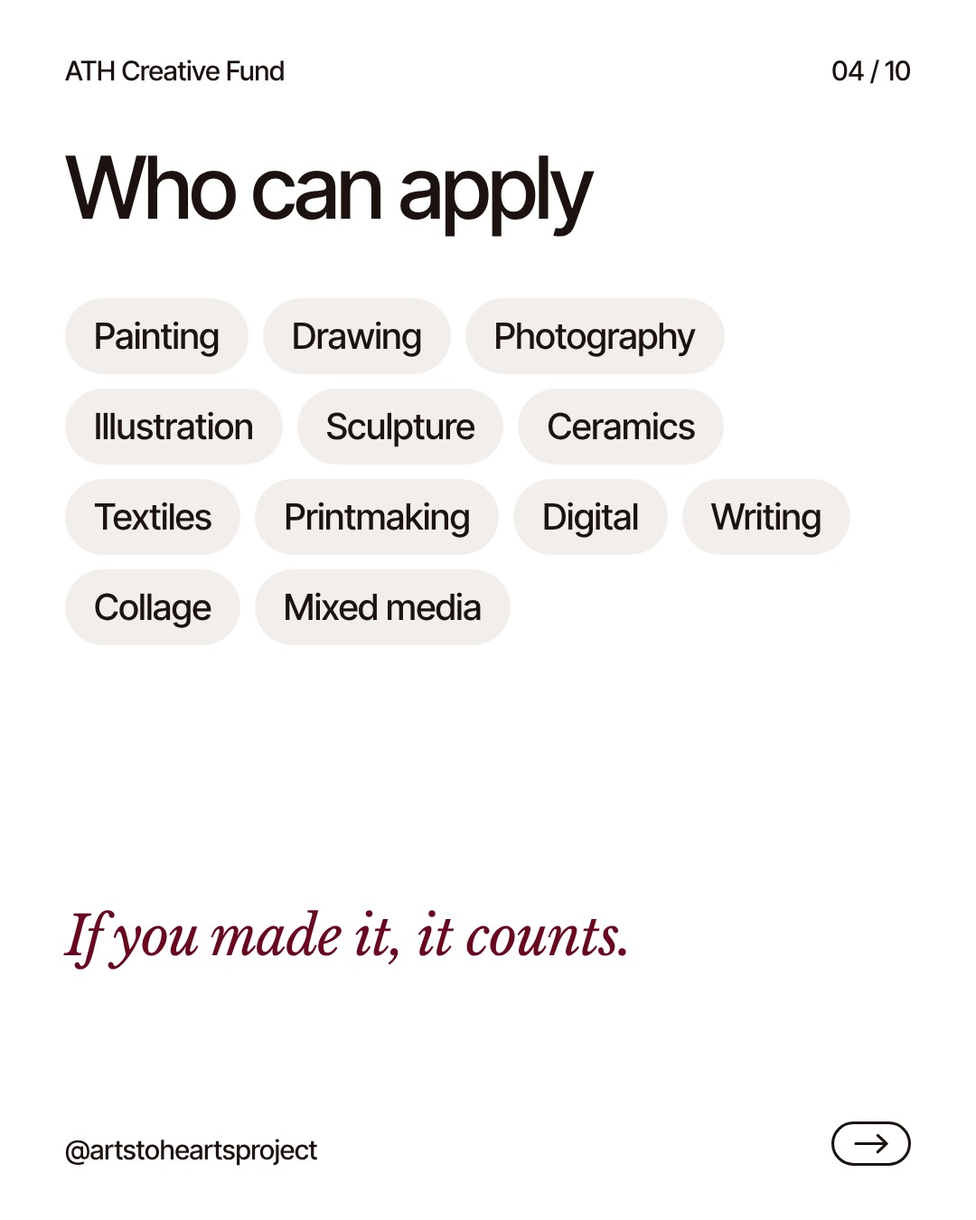
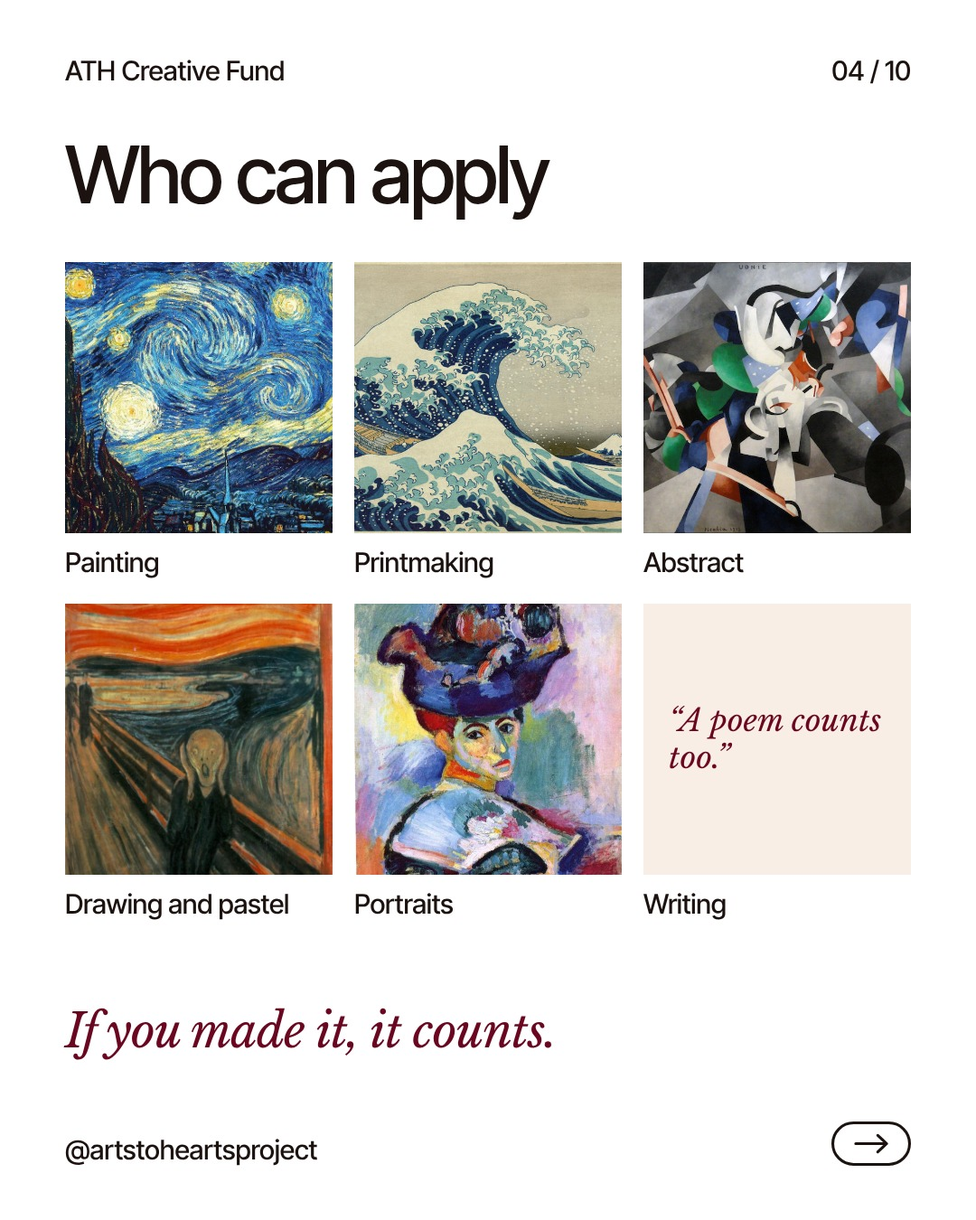
Rebuild Creative Fund carousel around the name and the art
Three cover options with ATH Creative Fund as the hero, the arrow badge,
serif voice and artwork back in, a mock Instagram post for step 2 and
the form for step 3.

Claude-Session: https://claude.ai/code/session_01Mf1HzAjfZN4cuceuciLqZR

diff --git a/design/campaigns/creative-fund/ATH-creative-fund-launch.html b/design/campaigns/creative-fund/ATH-creative-fund-launch.html
@@ -139,7 +139,7 @@ pre.cap{white-space:pre-wrap;background:var(--cream);border-radius:var(--r);padd
 <div class="links"><a class="pill rose" href="#carousel">The carousel</a><a class="pill rose" href="#caption">Caption</a><a class="pill line" href="#decide">To decide</a></div>
 </div></header>
 <div class="wrap layout"><nav class="toc" aria-label="Contents"><ol><li><a href="#goal">The goal</a></li><li><a href="#carousel">Carousel</a></li><li><a href="#caption">Caption</a></li><li><a href="#maths">The numbers</a></li><li><a href="#instagram">Instagram</a></li><li><a href="#launch">Launch plan</a></li><li><a href="#rhythm">Every month</a></li><li><a href="#rules">Promotion rules</a></li><li><a href="#decide">To decide</a></li></ol></nav><main><section class="s" id="goal"><p class="eyebrow">01 · The goal</p><h2>One artist, $500, every month. Make it the most saved and shared post ATH has made.</h2><p class="intro">The launch carousel has three jobs: make people want it, make the steps impossible to get wrong, and make it easy to pass on. Everything below serves those three.</p><div class="tw"><table><thead><tr><th>Goal</th><th>What drives it</th><th>Where it is in the carousel</th></tr></thead><tbody><tr><td>Saves (3,000+)</td><td>It is a to-do list people come back to: steps, dates, a checklist</td><td>Slides 5 to 9; "Save this" on the cover and the checklist</td></tr><tr><td>Shares and sends</td><td>It is money someone they know could use</td><td>Slide 2 (the conviction) and slide 10 ("Send this to them")</td></tr><tr><td>Entries</td><td>Three clear steps with the exact handle and hashtag to copy</td><td>Slides 5 to 7</td></tr><tr><td>Reach beyond followers</td><td>Every entry is a public post mentioning @artstoheartsproject</td><td>Built into step 2</td></tr></tbody></table></div></section>
-<section class="s" id="carousel"><p class="eyebrow">02 · Launch carousel</p><h2>Ten slides, one job each</h2><p class="intro">Ten slides keeps it within what scheduling tools can publish. The full-size files are in <code>design/campaigns/creative-fund/slides/</code>.</p><div class="grid g3"><figure><img class="shot" src="slides/web/01-cover.jpg" width="720" height="900" alt="Burgundy cover: $500 for one artist. Every month. No questions asked." loading="lazy"><figcaption><b>Cover: the offer</b>$500, every month, no questions asked. "Save this" in the corner and a swipe cue.</figcaption></figure><figure><img class="shot" src="slides/web/02-why.jpg" width="720" height="900" alt="Most funding asks artists to prove they deserve it. We would rather just fund the work." loading="lazy"><figcaption><b>The conviction</b>Why ATH is doing this, in two lines. This is the slide people quote when they share.</figcaption></figure><figure><img class="shot" src="slides/web/03-what.jpg" width="720" height="900" alt="$500 with four rows of what the fund means" loading="lazy"><figcaption><b>What you get</b>Four facts: one artist, US dollars, spend it on anything, no strings.</figcaption></figure><figure><img class="shot" src="slides/web/04-who.jpg" width="720" height="900" alt="Chips of twelve media and If you made it, it counts" loading="lazy"><figcaption><b>Who can apply</b>Every medium named, so nobody counts themselves out.</figcaption></figure><figure><img class="shot" src="slides/web/05-step1.jpg" width="720" height="900" alt="Step 1: choose your work" loading="lazy"><figcaption><b>Step 1</b>Choose your work.</figcaption></figure><figure><img class="shot" src="slides/web/06-step2.jpg" width="720" height="900" alt="Step 2: share on Instagram with @artstoheartsproject and #ATHCreativeFund" loading="lazy"><figcaption><b>Step 2</b>Share it, with the exact mention and hashtag to copy.</figcaption></figure><figure><img class="shot" src="slides/web/07-step3.jpg" width="720" height="900" alt="Step 3: apply on our site" loading="lazy"><figcaption><b>Step 3</b>Apply through the link in bio.</figcaption></figure><figure><img class="shot" src="slides/web/08-dates.jpg" width="720" height="900" alt="Dates: opens 15 Oct, closes 15 Nov, artist chosen TBC" loading="lazy"><figcaption><b>Dates</b>Opens, closes, when the artist is chosen.</figcaption></figure><figure><img class="shot" src="slides/web/09-checklist.jpg" width="720" height="900" alt="Checklist of six items with Save this so you don't miss a step" loading="lazy"><figcaption><b>The checklist</b>The reason to save: six boxes to tick before applying.</figcaption></figure><figure><img class="shot" src="slides/web/10-share.jpg" width="720" height="900" alt="Know an artist who needs $500? Send this to them." loading="lazy"><figcaption><b>The send</b>One clear ask to send it to an artist friend.</figcaption></figure></div></section>
+<section class="s" id="carousel"><p class="eyebrow">02 · Launch carousel</p><h2>Ten slides, one job each</h2><p class="intro">Pick one cover; the carousel is then ten slides, within what scheduling tools can publish. The paintings are public-domain stand-ins: swap in artists' work (with permission) before posting. The full-size files are in <code>design/campaigns/creative-fund/slides/</code>.</p><div class="grid g3"><figure><img class="shot" src="slides/web/01a-cover-type.jpg" width="720" height="900" alt="Burgundy cover: logo, ATH Creative Fund with the arrow badge, $500 for one artist, every month, No questions asked" loading="lazy"><figcaption><b>Cover option A: the name</b>ATH Creative Fund as the headline, $500 underneath. Strongest brand recall. Recommended.</figcaption></figure><figure><img class="shot" src="slides/web/01b-cover-art.jpg" width="720" height="900" alt="Matisse painting with ARTS TO HEARTS PROJECT PRESENTS, CREATIVE FUND, $500 for one artist every month, No proposal, No report, NO QUESTIONS ASKED" loading="lazy"><figcaption><b>Cover option B: the art</b>The name in capitals over an artwork, text placed around the subject. Most eye-catching in the feed.</figcaption></figure><figure><img class="shot" src="slides/web/01c-cover-split.jpg" width="720" height="900" alt="Starry Night above, ATH Creative Fund in Burgundy and $500 for one artist. No questions asked." loading="lazy"><figcaption><b>Cover option C: art and name</b>Artwork above, the name in Burgundy below. Calmest.</figcaption></figure><figure><img class="shot" src="slides/web/02-why.jpg" width="720" height="900" alt="Most funding asks artists to prove they deserve it. We would rather just fund the work." loading="lazy"><figcaption><b>The conviction</b>Why ATH is doing this, in two lines. This is the slide people quote when they share.</figcaption></figure><figure><img class="shot" src="slides/web/03-what.jpg" width="720" height="900" alt="$500 with four rows of what the fund means" loading="lazy"><figcaption><b>What you get</b>Four facts: one artist, US dollars, spend it on anything, no strings.</figcaption></figure><figure><img class="shot" src="slides/web/04-who.jpg" width="720" height="900" alt="Chips of twelve media and If you made it, it counts" loading="lazy"><figcaption><b>Who can apply</b>Artwork across media, and a page of writing, so nobody counts themselves out.</figcaption></figure><figure><img class="shot" src="slides/web/05-step1.jpg" width="720" height="900" alt="Step 1: choose your work" loading="lazy"><figcaption><b>Step 1</b>Choose your work.</figcaption></figure><figure><img class="shot" src="slides/web/06-step2.jpg" width="720" height="900" alt="Step 2: share on Instagram with @artstoheartsproject and #ATHCreativeFund" loading="lazy"><figcaption><b>Step 2</b>A real-looking Instagram post shows exactly what an entry looks like.</figcaption></figure><figure><img class="shot" src="slides/web/07-step3.jpg" width="720" height="900" alt="Step 3: apply on our site" loading="lazy"><figcaption><b>Step 3</b>The form, so people know what they will be asked.</figcaption></figure><figure><img class="shot" src="slides/web/08-dates.jpg" width="720" height="900" alt="Dates: opens 15 Oct, closes 15 Nov, artist chosen TBC" loading="lazy"><figcaption><b>Dates</b>Opens, closes, when the artist is chosen.</figcaption></figure><figure><img class="shot" src="slides/web/09-checklist.jpg" width="720" height="900" alt="Checklist of six items with Save this so you don't miss a step" loading="lazy"><figcaption><b>The checklist</b>The reason to save: six boxes to tick before applying.</figcaption></figure><figure><img class="shot" src="slides/web/10-share.jpg" width="720" height="900" alt="Know an artist who needs $500? Send this to them." loading="lazy"><figcaption><b>The send</b>One clear ask to send it to an artist friend.</figcaption></figure></div></section>
 <section class="s" id="caption"><p class="eyebrow">03 · Caption</p><h2>Ready to paste</h2><pre class="cap">$500 for one artist. Every month. No questions asked.
 
 Introducing the ATH Creative Fund. Most funding asks artists to prove they deserve it. We would rather just fund the work. Each month, one artist receives $500 USD to spend on whatever their practice needs: materials, rent, a course, time.

diff --git a/design/guidelines/src/fund-brief.html b/design/guidelines/src/fund-brief.html
@@ -12,7 +12,7 @@ pre.cap{white-space:pre-wrap;background:var(--cream);border-radius:var(--r);padd
 <div class="links"><a class="pill rose" href="#carousel">The carousel</a><a class="pill rose" href="#caption">Caption</a><a class="pill line" href="#decide">To decide</a></div>
 </div></header>
 <div class="wrap layout"><nav class="toc" aria-label="Contents"><ol><li><a href="#goal">The goal</a></li><li><a href="#carousel">Carousel</a></li><li><a href="#caption">Caption</a></li><li><a href="#maths">The numbers</a></li><li><a href="#instagram">Instagram</a></li><li><a href="#launch">Launch plan</a></li><li><a href="#rhythm">Every month</a></li><li><a href="#rules">Promotion rules</a></li><li><a href="#decide">To decide</a></li></ol></nav><main><section class="s" id="goal"><p class="eyebrow">01 · The goal</p><h2>One artist, $500, every month. Make it the most saved and shared post ATH has made.</h2><p class="intro">The launch carousel has three jobs: make people want it, make the steps impossible to get wrong, and make it easy to pass on. Everything below serves those three.</p><div class="tw"><table><thead><tr><th>Goal</th><th>What drives it</th><th>Where it is in the carousel</th></tr></thead><tbody><tr><td>Saves (3,000+)</td><td>It is a to-do list people come back to: steps, dates, a checklist</td><td>Slides 5 to 9; "Save this" on the cover and the checklist</td></tr><tr><td>Shares and sends</td><td>It is money someone they know could use</td><td>Slide 2 (the conviction) and slide 10 ("Send this to them")</td></tr><tr><td>Entries</td><td>Three clear steps with the exact handle and hashtag to copy</td><td>Slides 5 to 7</td></tr><tr><td>Reach beyond followers</td><td>Every entry is a public post mentioning @artstoheartsproject</td><td>Built into step 2</td></tr></tbody></table></div></section>
-<section class="s" id="carousel"><p class="eyebrow">02 · Launch carousel</p><h2>Ten slides, one job each</h2><p class="intro">Ten slides keeps it within what scheduling tools can publish. The full-size files are in <code>design/campaigns/creative-fund/slides/</code>.</p><div class="grid g3"><figure><img class="shot" src="slides/web/01-cover.jpg" width="720" height="900" alt="Burgundy cover: $500 for one artist. Every month. No questions asked." loading="lazy"><figcaption><b>Cover: the offer</b>$500, every month, no questions asked. "Save this" in the corner and a swipe cue.</figcaption></figure><figure><img class="shot" src="slides/web/02-why.jpg" width="720" height="900" alt="Most funding asks artists to prove they deserve it. We would rather just fund the work." loading="lazy"><figcaption><b>The conviction</b>Why ATH is doing this, in two lines. This is the slide people quote when they share.</figcaption></figure><figure><img class="shot" src="slides/web/03-what.jpg" width="720" height="900" alt="$500 with four rows of what the fund means" loading="lazy"><figcaption><b>What you get</b>Four facts: one artist, US dollars, spend it on anything, no strings.</figcaption></figure><figure><img class="shot" src="slides/web/04-who.jpg" width="720" height="900" alt="Chips of twelve media and If you made it, it counts" loading="lazy"><figcaption><b>Who can apply</b>Every medium named, so nobody counts themselves out.</figcaption></figure><figure><img class="shot" src="slides/web/05-step1.jpg" width="720" height="900" alt="Step 1: choose your work" loading="lazy"><figcaption><b>Step 1</b>Choose your work.</figcaption></figure><figure><img class="shot" src="slides/web/06-step2.jpg" width="720" height="900" alt="Step 2: share on Instagram with @artstoheartsproject and #ATHCreativeFund" loading="lazy"><figcaption><b>Step 2</b>Share it, with the exact mention and hashtag to copy.</figcaption></figure><figure><img class="shot" src="slides/web/07-step3.jpg" width="720" height="900" alt="Step 3: apply on our site" loading="lazy"><figcaption><b>Step 3</b>Apply through the link in bio.</figcaption></figure><figure><img class="shot" src="slides/web/08-dates.jpg" width="720" height="900" alt="Dates: opens 15 Oct, closes 15 Nov, artist chosen TBC" loading="lazy"><figcaption><b>Dates</b>Opens, closes, when the artist is chosen.</figcaption></figure><figure><img class="shot" src="slides/web/09-checklist.jpg" width="720" height="900" alt="Checklist of six items with Save this so you don't miss a step" loading="lazy"><figcaption><b>The checklist</b>The reason to save: six boxes to tick before applying.</figcaption></figure><figure><img class="shot" src="slides/web/10-share.jpg" width="720" height="900" alt="Know an artist who needs $500? Send this to them." loading="lazy"><figcaption><b>The send</b>One clear ask to send it to an artist friend.</figcaption></figure></div></section>
+<section class="s" id="carousel"><p class="eyebrow">02 · Launch carousel</p><h2>Ten slides, one job each</h2><p class="intro">Pick one cover; the carousel is then ten slides, within what scheduling tools can publish. The paintings are public-domain stand-ins: swap in artists' work (with permission) before posting. The full-size files are in <code>design/campaigns/creative-fund/slides/</code>.</p><div class="grid g3"><figure><img class="shot" src="slides/web/01a-cover-type.jpg" width="720" height="900" alt="Burgundy cover: logo, ATH Creative Fund with the arrow badge, $500 for one artist, every month, No questions asked" loading="lazy"><figcaption><b>Cover option A: the name</b>ATH Creative Fund as the headline, $500 underneath. Strongest brand recall. Recommended.</figcaption></figure><figure><img class="shot" src="slides/web/01b-cover-art.jpg" width="720" height="900" alt="Matisse painting with ARTS TO HEARTS PROJECT PRESENTS, CREATIVE FUND, $500 for one artist every month, No proposal, No report, NO QUESTIONS ASKED" loading="lazy"><figcaption><b>Cover option B: the art</b>The name in capitals over an artwork, text placed around the subject. Most eye-catching in the feed.</figcaption></figure><figure><img class="shot" src="slides/web/01c-cover-split.jpg" width="720" height="900" alt="Starry Night above, ATH Creative Fund in Burgundy and $500 for one artist. No questions asked." loading="lazy"><figcaption><b>Cover option C: art and name</b>Artwork above, the name in Burgundy below. Calmest.</figcaption></figure><figure><img class="shot" src="slides/web/02-why.jpg" width="720" height="900" alt="Most funding asks artists to prove they deserve it. We would rather just fund the work." loading="lazy"><figcaption><b>The conviction</b>Why ATH is doing this, in two lines. This is the slide people quote when they share.</figcaption></figure><figure><img class="shot" src="slides/web/03-what.jpg" width="720" height="900" alt="$500 with four rows of what the fund means" loading="lazy"><figcaption><b>What you get</b>Four facts: one artist, US dollars, spend it on anything, no strings.</figcaption></figure><figure><img class="shot" src="slides/web/04-who.jpg" width="720" height="900" alt="Chips of twelve media and If you made it, it counts" loading="lazy"><figcaption><b>Who can apply</b>Artwork across media, and a page of writing, so nobody counts themselves out.</figcaption></figure><figure><img class="shot" src="slides/web/05-step1.jpg" width="720" height="900" alt="Step 1: choose your work" loading="lazy"><figcaption><b>Step 1</b>Choose your work.</figcaption></figure><figure><img class="shot" src="slides/web/06-step2.jpg" width="720" height="900" alt="Step 2: share on Instagram with @artstoheartsproject and #ATHCreativeFund" loading="lazy"><figcaption><b>Step 2</b>A real-looking Instagram post shows exactly what an entry looks like.</figcaption></figure><figure><img class="shot" src="slides/web/07-step3.jpg" width="720" height="900" alt="Step 3: apply on our site" loading="lazy"><figcaption><b>Step 3</b>The form, so people know what they will be asked.</figcaption></figure><figure><img class="shot" src="slides/web/08-dates.jpg" width="720" height="900" alt="Dates: opens 15 Oct, closes 15 Nov, artist chosen TBC" loading="lazy"><figcaption><b>Dates</b>Opens, closes, when the artist is chosen.</figcaption></figure><figure><img class="shot" src="slides/web/09-checklist.jpg" width="720" height="900" alt="Checklist of six items with Save this so you don't miss a step" loading="lazy"><figcaption><b>The checklist</b>The reason to save: six boxes to tick before applying.</figcaption></figure><figure><img class="shot" src="slides/web/10-share.jpg" width="720" height="900" alt="Know an artist who needs $500? Send this to them." loading="lazy"><figcaption><b>The send</b>One clear ask to send it to an artist friend.</figcaption></figure></div></section>
 <section class="s" id="caption"><p class="eyebrow">03 · Caption</p><h2>Ready to paste</h2><pre class="cap">$500 for one artist. Every month. No questions asked.
 
 Introducing the ATH Creative Fund. Most funding asks artists to prove they deserve it. We would rather just fund the work. Each month, one artist receives $500 USD to spend on whatever their practice needs: materials, rent, a course, time.

diff --git a/design/campaigns/creative-fund/fund.py b/design/campaigns/creative-fund/fund.py
@@ -1,77 +1,132 @@
-"""ATH Creative Fund: launch carousel (10 slides, 1080 x 1350).
+"""ATH Creative Fund: launch carousel (three cover options + nine slides, 1080 x 1350).
 
 Usage: ATH_FONTS=<fonts folder> NP=<folder holding playwright> python3 design/campaigns/creative-fund/fund.py
 Fonts: npm @fontsource/inter-tight and @fontsource/libre-baskerville unpacked as it/ and lb/ in ATH_FONTS.
+Stand-in artworks come from design/guidelines/src/stock (public domain).
 Writes slides/*.jpg (full size, to post) and slides/web/*.jpg (720 px, for the brief).
 """
 import os, re, subprocess, pathlib
 from PIL import Image
 
 HERE = pathlib.Path(__file__).resolve().parent
+STOCK = HERE.parents[1] / 'guidelines' / 'src' / 'stock'
 LOGO = HERE.parents[1] / 'logo' / 'svg' / 'master' / 'logo-master_burgundy.svg'
 FONTS = pathlib.Path(os.environ.get('ATH_FONTS', 'fonts')).resolve()
 OUT = HERE / 'slides'
 
-BURG, ROSE, PEONY, INK = '#6A0620', '#FFA1C2', '#FAD2E1', '#1C1310'
-WHITE, BLACK, GREY, MUTED = '#FFFFFF', '#141111', '#F1EEEB', '#6E6461'
+BURG, NIGHT, ROSE, PEONY, INK = '#6A0620', '#52051A', '#FFA1C2', '#FAD2E1', '#1C1310'
+WHITE, BLACK, GREY, MUTED, CREAM = '#FFFFFF', '#141111', '#F1EEEB', '#6E6461', '#F9EEE5'
 
 src = LOGO.read_text()
 x, y, w, h = map(float, re.search(r'viewBox="([^"]+)"', src).group(1).split())
 VB = f'{x+78:.2f} {y+78:.2f} {w-156:.2f} {h-156:.2f}'
 G = re.search(r'<g fill="[^"]+">(.*?)</g>', src, re.S).group(1)
-logo = lambda c, wd: f'<svg style="width:{wd}px;display:block" viewBox="{VB}" fill="{c}" aria-hidden="true">{G}</svg>'
+
+
+def logo(c, wd):
+    return f'<svg style="width:{wd}px;display:block" viewBox="{VB}" fill="{c}" aria-hidden="true">{G}</svg>'
+
+
+def img(name, pos='50% 50%'):
+    return f'<img src="{(STOCK / name).as_uri()}" style="object-position:{pos}">'
+
+
 ARROW = '<svg class="arw" viewBox="0 0 72 40" aria-hidden="true"><rect x="1.25" y="1.25" width="69.5" height="37.5" rx="18.75" fill="none" stroke="currentColor" stroke-width="2.5"/><path d="M22 20h28M42 12.5l8 7.5-8 7.5" fill="none" stroke="currentColor" stroke-width="2.5" stroke-linecap="round" stroke-linejoin="round"/></svg>'
 TICK = '<svg viewBox="0 0 24 24" aria-hidden="true"><path d="M5 12.5l4.5 4.5L19 7.5" fill="none" stroke="currentColor" stroke-width="2.6" stroke-linecap="round" stroke-linejoin="round"/></svg>'
+
+
+def badge(bg, fg):
+    return f'<span class="badge" style="background:{bg};color:{fg}"><svg viewBox="0 0 24 24"><path d="M9.5 6l6 6-6 6" fill="none" stroke="currentColor" stroke-width="2.4" stroke-linecap="round" stroke-linejoin="round"/></svg></span>'
+
+
 N = 10
 
 
-def frame(c, i, br=True):
+def frame(c, i, br=True, bl='@artstoheartsproject'):
     return (f'<div class="m tl" style="color:{c}">ATH Creative Fund</div><div class="m tr" style="color:{c}">{i:02d} / {N:02d}</div>'
-            f'<div class="m bl" style="color:{c}">@artstoheartsproject</div>' + (f'<div class="m br" style="color:{c}">{ARROW}</div>' if br else ''))
+            f'<div class="m bl" style="color:{c}">{bl}</div>' + (f'<div class="m br" style="color:{c}">{ARROW}</div>' if br else ''))
 
 
 S = []
-add = lambda name, bg, body: S.append((name, f'<section id="{name}" class="s" style="background:{bg}">{body}</section>'))
 
-add('01-cover', BURG, f'''<div class="m tl" style="color:{WHITE}">ATH Creative Fund</div><div class="m tr" style="color:{WHITE}">Save this</div>
-<p class="fig" style="color:{WHITE};top:140px;font-size:440px">$500</p>
-<h1 class="h" style="color:{WHITE};top:610px;font-size:104px">for one artist.<br>Every month.</h1>
-<p class="serif" style="color:{PEONY};top:850px;font-size:72px"><i>No questions asked.</i></p>
-<div class="swipe" style="color:{WHITE}"><span>Swipe to apply</span>{ARROW}</div>
-<div class="m bl" style="color:{WHITE}">@artstoheartsproject</div>''')
 
-add('02-why', WHITE, f'''{frame(INK, 2)}
-<p class="serif" style="color:{INK};top:170px;font-size:64px">Most funding asks artists to prove they deserve it. Proposals, budgets, reports, waiting.</p>
-<h2 class="h" style="color:{BURG};top:720px;font-size:104px">We would rather just fund the work.</h2>''')
+def add(name, bg, body):
+    S.append((name, f'<section id="{name}" class="s" style="background:{bg}">{body}</section>'))
+
+
+# ---------------- Three cover options: the name is the hero ----------------
+add('01a-cover-type', BURG, f'''<div style="position:absolute;left:72px;top:64px">{logo(WHITE, 250)}</div><div class="m tr" style="color:{WHITE}">Save this</div>
+<h1 class="h" style="color:{WHITE};top:190px;font-size:150px;line-height:.92">{badge(ROSE, BURG)}ATH Creative Fund</h1>
+<div style="position:absolute;left:72px;right:72px;top:700px;border-top:2px solid {WHITE}55"></div>
+<p class="fig" style="color:{WHITE};top:740px;font-size:230px">$500</p>
+<p class="h" style="color:{WHITE};top:770px;left:560px;font-size:56px;line-height:1.05">for one artist,<br>every month.</p>
+<p class="serif" style="color:{PEONY};top:960px;font-size:64px"><i>No questions asked.</i></p>
+<div class="m bl" style="color:{WHITE}">Swipe to apply</div><div class="m br" style="color:{WHITE}">{ARROW}</div>''')
+
+add('01b-cover-art', NIGHT, f'''<div class="pic" style="inset:0">{img('woman_with_hat.jpg', '50% 32%')}</div>
+<div class="veil" style="inset:0;background:#000;opacity:.36"></div>
+<p class="cap c" style="color:{WHITE};top:64px">ARTS TO HEARTS PROJECT PRESENTS</p>
+<p class="caps c" style="color:{WHITE};top:130px;font-size:132px">Creative Fund</p>
+<p class="serif c" style="color:{WHITE};top:560px;font-size:84px;line-height:1.05">$500 for one artist,<br><i>every month</i></p>
+<p class="cap" style="color:{WHITE};left:72px;top:860px">NO PROPOSAL</p><p class="cap" style="color:{WHITE};right:72px;left:auto;top:860px">NO REPORT</p>
+<p class="caps c" style="color:{WHITE};top:1090px;font-size:96px">No questions asked</p>
+<p class="cr" style="color:{WHITE};left:72px;bottom:56px">Henri Matisse, Woman with a Hat, 1905 · stand-in</p><div class="m br" style="color:{WHITE}">{ARROW}</div>''')
+
+add('01c-cover-split', WHITE, f'''<div class="pic" style="top:0;height:620px">{img('starry_night.jpg', '50% 45%')}</div>
+<span class="chip" style="background:{WHITE};color:{INK};left:72px;top:56px">New · Every month</span>
+<h1 class="h" style="color:{BURG};top:670px;font-size:130px;line-height:.92">ATH Creative Fund</h1>
+<p class="h" style="color:{INK};top:930px;font-size:64px;line-height:1.05">$500 for one artist. No questions asked.</p>
+<div class="m bl" style="color:{INK}">Swipe to apply</div><div class="m br" style="color:{INK}">{ARROW}</div>''')
+
+# ---------------- The carousel ----------------
+add('02-why', ROSE, f'''{frame(NIGHT, 2)}
+<p class="serif" style="color:{NIGHT};top:170px;font-size:66px">Most funding asks artists to prove they deserve it. Proposals, budgets, reports, waiting.</p>
+<h2 class="h" style="color:{NIGHT};top:740px;font-size:110px">We would rather <span class="serifi">just fund the work.</span></h2>''')
 
 rows = [('Paid to one artist', 'Chosen each month'), ('In US dollars', '$500, sent to you'), ('Spend it on anything', 'Materials, rent, a course, time'), ('No strings', 'No proposal, no report back')]
 rr = ''.join(f'<div class="row"><span style="color:{WHITE}">{a}</span><span style="color:{ROSE}">{b}</span></div>' for a, b in rows)
 add('03-what', BLACK, f'''{frame(WHITE, 3)}
 <p class="fig" style="color:{WHITE};top:120px;font-size:300px">$500</p>
-<div class="list" style="top:470px">{rr}</div>''')
+<p class="serif" style="color:{ROSE};top:420px;left:700px;right:72px;font-size:48px"><i>every month</i></p>
+<div class="list" style="top:520px">{rr}</div>''')
 
-media = ['Painting', 'Drawing', 'Photography', 'Illustration', 'Sculpture', 'Ceramics', 'Textiles', 'Printmaking', 'Digital', 'Writing', 'Collage', 'Mixed media']
-chips = ''.join(f'<span class="chip">{m}</span>' for m in media)
+tiles = [('starry_night.jpg', '50% 40%', 'Painting'), ('wave.jpg', '25% 50%', 'Printmaking'), ('udnie.jpg', '50% 50%', 'Abstract'),
+         ('the_scream.jpg', '50% 60%', 'Drawing and pastel'), ('woman_with_hat.jpg', '50% 30%', 'Portraits')]
+tt = ''.join(f'<div class="tile"><div class="ti">{img(f, p)}</div><span>{l}</span></div>' for f, p, l in tiles)
+tt += f'<div class="tile"><div class="ti" style="background:{CREAM};display:flex;align-items:center;padding:28px;box-sizing:border-box"><p style="margin:0;font:italic 400 34px/1.2 LB;color:{BURG}">“A poem counts too.”</p></div><span>Writing</span></div>'
 add('04-who', WHITE, f'''{frame(INK, 4)}
-<h2 class="h" style="color:{INK};top:160px;font-size:96px">Who can apply</h2>
-<div class="chips">{chips}</div>
-<p class="serif" style="color:{BURG};top:1000px;font-size:60px"><i>If you made it, it counts.</i></p>''')
+<h2 class="h" style="color:{INK};top:150px;font-size:88px">Who can apply</h2>
+<div class="tgrid">{tt}</div>
+<p class="serif" style="color:{BURG};top:1110px;font-size:52px"><i>If you made it, it counts.</i></p>''')
 
+add('05-step1', WHITE, f'''{frame(INK, 5)}
+<p class="idx" style="color:{BURG}">Step 1 of 3</p>
+<div class="pic fit" style="left:72px;right:72px;top:210px;height:560px;background:{GREY}">{img('starry_night.jpg')}</div>
+<h2 class="h" style="color:{INK};top:820px;font-size:88px">{badge(BURG, WHITE)}Choose your work</h2>
+<p class="p" style="color:{INK};top:950px">One piece that best represents your practice. New or already shared, as long as you made it.</p>''')
 
-def step(n, name, title, body, extra=''):
-    add(name, WHITE, f'''{frame(INK, n + 4)}
-<p class="idx" style="color:{BURG}">Step {n} of 3</p>
-<p class="fig" style="color:{BURG};top:190px;font-size:290px">{n}</p>
-<h2 class="h" style="color:{INK};top:500px;font-size:88px">{title}</h2>
-<p class="p" style="color:{INK};top:670px">{body}</p>{extra}''')
+post = f'''<div class="phone">
+<div class="ph-top"><span class="av"></span><b>yourname</b></div>
+<div class="ph-img">{img('wave.jpg', '30% 50%')}</div>
+<div class="ph-cap"><b>yourname</b> My new print, made this autumn. <span style="color:#1d4ed8">@artstoheartsproject</span> <span style="color:#1d4ed8">#ATHCreativeFund</span></div></div>'''
+add('06-step2', GREY, f'''{frame(INK, 6)}
+<p class="idx" style="color:{BURG}">Step 2 of 3</p>
+<h2 class="h" style="color:{INK};top:200px;font-size:80px">Share it on Instagram</h2>
+<p class="small" style="color:{INK};top:310px;font-size:34px">Post it publicly between 15&nbsp;October and 15&nbsp;November.</p>
+{post}
+<div class="notes"><p><b>Mention</b>@artstoheartsproject in the caption</p><p><b>Add</b>#ATHCreativeFund</p><p><b>Follow</b>us, so you see our message if you are chosen</p><p><b>Writers</b>post a photo of the page or a simple text graphic</p></div>''')
 
-
-step(1, '05-step1', 'Choose your work', 'One piece that best represents your practice. New or already shared, as long as you made it.')
-step(2, '06-step2', 'Share it on Instagram', 'Post it publicly between 15&nbsp;October and 15&nbsp;November.',
-     f'''<div class="tags" style="top:820px"><span style="background:{GREY};color:{BURG}">@artstoheartsproject</span><span style="background:{GREY};color:{BURG}">#ATHCreativeFund</span></div>
-<p class="small" style="color:{MUTED};top:1030px;font-size:30px">Mention us in the caption, add the hashtag and follow us so you see our message if you are chosen. Writers: post a photo of the page or a simple text graphic.</p>''')
-step(3, '07-step3', 'Apply on our site', 'Send the link to your post, your work sample and a few lines about your practice, in your own words.',
-     f'<p class="small" style="color:{BURG};top:880px;font-size:40px;font-weight:500">Link in our bio</p>')
+form = f'''<div class="form">
+<div class="f-head">ATH Creative Fund · Application</div>
+<label>Link to your Instagram post</label><div class="f-in">instagram.com/p/…</div>
+<label>Your work sample</label><div class="f-in f-up">Upload image</div>
+<label>A few lines about your practice</label><div class="f-in f-ta">In your own words</div>
+<div class="f-btn">Submit application</div></div>'''
+add('07-step3', WHITE, f'''{frame(INK, 7)}
+<p class="idx" style="color:{BURG}">Step 3 of 3</p>
+<h2 class="h" style="color:{INK};top:200px;font-size:80px">Apply on our site</h2>
+<p class="small" style="color:{BURG};top:310px;font-size:36px;font-weight:500">Link in our bio</p>
+{form}''')
 
 add('08-dates', BLACK, f'''{frame(WHITE, 8)}
 <h2 class="h" style="color:{WHITE};top:160px;font-size:96px">Dates</h2>
@@ -79,7 +134,7 @@ add('08-dates', BLACK, f'''{frame(WHITE, 8)}
 <div class="row big"><span style="color:{WHITE}">Opens</span><span style="color:{WHITE}">15 Oct</span></div>
 <div class="row big"><span style="color:{WHITE}">Closes</span><span style="color:{ROSE}">15 Nov</span></div>
 <div class="row big"><span style="color:{WHITE}">Artist chosen</span><span style="color:{WHITE}">TBC</span></div></div>
-<p class="p" style="color:#CFC8C4;top:1060px">Then a new round, every month.</p>''')
+<p class="serif" style="color:{ROSE};top:1040px;font-size:52px"><i>Then a new round, every month.</i></p>''')
 
 checks = ['One piece of work you made', 'Posted publicly on Instagram', '@artstoheartsproject in the caption', '#ATHCreativeFund added', 'Following @artstoheartsproject', 'Form sent with your post link']
 cc = ''.join(f'<div class="ck"><span class="bx" style="color:{BURG}">{TICK}</span><span>{c}</span></div>' for c in checks)
@@ -88,11 +143,11 @@ add('09-checklist', WHITE, f'''{frame(INK, 9)}
 <div class="checks">{cc}</div>
 <p class="serif" style="color:{BURG};top:1090px;font-size:52px"><i>Save this so you don't miss a step.</i></p>''')
 
-add('10-share', BURG, f'''<div class="m tr" style="color:{WHITE}">10 / 10</div>
-<h2 class="h" style="color:{WHITE};top:170px;font-size:112px">Know an artist who needs $500?</h2>
-<p class="serif" style="color:{PEONY};top:560px;font-size:64px"><i>Send this to them.</i></p>
-<div style="position:absolute;left:72px;top:1000px">{logo(WHITE, 420)}</div>
-<p class="p" style="color:{PEONY};top:1130px">Apply: link in our bio</p>''')
+add('10-share', BURG, f'''<div class="m tl" style="color:{WHITE}">ATH Creative Fund</div><div class="m tr" style="color:{WHITE}">10 / 10</div>
+<h2 class="h" style="color:{WHITE};top:170px;font-size:112px">{badge(ROSE, BURG)}Know an artist who needs $500?</h2>
+<p class="serif" style="color:{PEONY};top:600px;font-size:72px"><i>Send this to them.</i></p>
+<div style="position:absolute;left:72px;top:980px">{logo(WHITE, 460)}</div>
+<p class="small" style="color:{PEONY};top:1130px;font-size:36px">Apply: link in our bio</p>''')
 
 CSS = f'''
 @font-face{{font-family:IT;font-weight:400;src:url("{(FONTS/'it/package/files/inter-tight-latin-400-normal.woff2').as_uri()}")}}
@@ -101,25 +156,50 @@ CSS = f'''
 @font-face{{font-family:LB;font-style:italic;src:url("{(FONTS/'lb/package/files/libre-baskerville-latin-400-italic.woff2').as_uri()}")}}
 body{{margin:0;background:#777;display:flex;flex-wrap:wrap;gap:40px;padding:40px}}
 .s{{position:relative;width:1080px;height:1350px;overflow:hidden;font-family:IT;-webkit-font-smoothing:antialiased}}
-.m{{position:absolute;font:500 30px/1.2 IT;letter-spacing:-.005em;display:flex;align-items:center}}
+.m{{position:absolute;font:500 30px/1.2 IT;letter-spacing:-.005em;display:flex;align-items:center;z-index:3}}
 .tl{{left:72px;top:60px}}.tr{{right:72px;top:60px}}.bl{{left:72px;bottom:60px}}.br{{right:72px;bottom:60px}}
 .arw{{width:88px;height:49px;display:block}}
-.h{{position:absolute;left:72px;right:72px;margin:0;font-weight:500;line-height:.98;letter-spacing:-0.035em;text-wrap:balance}}
-.fig{{position:absolute;left:56px;margin:0;font:500 520px/.85 IT;letter-spacing:-0.07em}}
-.serif{{position:absolute;left:72px;right:96px;margin:0;font:400 64px/1.2 LB;letter-spacing:-0.02em;text-wrap:pretty}}
-.swipe{{position:absolute;left:0;right:0;bottom:170px;display:flex;justify-content:center;align-items:center;gap:20px;font:500 36px/1 IT}}
+.h{{position:absolute;left:72px;right:72px;margin:0;font-weight:500;line-height:.98;letter-spacing:-0.035em;text-wrap:balance;z-index:2}}
+.fig{{position:absolute;left:56px;margin:0;font:500 520px/.85 IT;letter-spacing:-0.07em;z-index:2}}
+.serif{{position:absolute;left:72px;right:96px;margin:0;font:400 64px/1.2 LB;letter-spacing:-0.02em;text-wrap:pretty;z-index:2}}
+.serifi{{font-family:LB;font-style:italic;font-weight:400;letter-spacing:-0.03em}}
+.badge{{display:inline-flex;width:.72em;height:.72em;border-radius:50%;align-items:center;justify-content:center;vertical-align:baseline;transform:translateY(.02em);margin-right:.16em}}
+.badge svg{{width:46%;height:46%}}
+.c{{left:0!important;right:0!important;text-align:center}}
+.cap{{position:absolute;margin:0;font:500 30px/1 IT;letter-spacing:.06em;z-index:2}}
+.caps{{position:absolute;margin:0;font:500 128px/.92 IT;letter-spacing:-0.035em;text-transform:uppercase;z-index:2}}
+.cr{{position:absolute;margin:0;font:400 24px/1.3 IT;z-index:3}}
+.pic{{position:absolute;left:0;right:0;top:0;overflow:hidden}}
+.pic img{{width:100%;height:100%;object-fit:cover;display:block}}
+.pic.fit img{{object-fit:contain}}
+.veil{{position:absolute;z-index:1}}
+.chip{{position:absolute;z-index:3;font:500 30px/1 IT;padding:18px 26px;border-radius:999px}}
 .list{{position:absolute;left:72px;right:72px}}
 .row{{display:flex;justify-content:space-between;gap:32px;border-top:2px solid #ffffff33;padding:30px 0;font:500 42px/1.15 IT;letter-spacing:-0.015em}}
 .row span:last-child{{text-align:right}}
 .row.big{{font-size:72px;letter-spacing:-0.03em;padding:40px 0}}
-.chips{{position:absolute;left:72px;right:72px;top:330px;display:flex;flex-wrap:wrap;gap:16px}}
-.chip{{font:500 40px/1 IT;letter-spacing:-0.01em;padding:22px 32px;border-radius:999px;background:{GREY};color:{INK}}}
-.idx{{position:absolute;left:72px;top:150px;margin:0;font:500 32px/1 IT}}
-.p{{position:absolute;left:72px;right:120px;margin:0;font:400 44px/1.35 IT;letter-spacing:-0.01em}}
+.idx{{position:absolute;left:72px;top:140px;margin:0;font:500 32px/1 IT}}
+.p{{position:absolute;left:72px;right:120px;margin:0;font:400 42px/1.35 IT;letter-spacing:-0.01em}}
 .small{{position:absolute;left:72px;right:120px;margin:0;font:400 32px/1.4 IT}}
-.tags{{position:absolute;left:72px;right:72px;display:flex;flex-direction:column;gap:14px;align-items:flex-start}}
-.tags span{{font:500 44px/1 IT;letter-spacing:-0.02em;padding:20px 28px;border-radius:14px}}
-.checks{{position:absolute;left:72px;right:72px;top:330px;display:grid;gap:0}}
+.tgrid{{position:absolute;left:72px;right:72px;top:290px;display:grid;grid-template-columns:repeat(3,1fr);gap:28px 24px}}
+.tile .ti{{height:300px;overflow:hidden}}.tile .ti img{{width:100%;height:100%;object-fit:cover;display:block}}
+.tile span{{display:block;margin-top:14px;font:500 30px/1.2 IT;color:{INK};letter-spacing:-0.01em}}
+.phone{{position:absolute;left:72px;top:400px;width:560px;background:{WHITE};border-radius:28px;overflow:hidden;box-shadow:0 30px 60px -30px rgba(0,0,0,.35)}}
+.ph-top{{display:flex;align-items:center;gap:16px;padding:20px 24px;font:500 26px/1 IT;color:{INK}}}
+.av{{width:44px;height:44px;border-radius:50%;background:{GREY}}}
+.ph-img{{height:560px}}.ph-img img{{width:100%;height:100%;object-fit:cover;display:block}}
+.ph-cap{{padding:20px 24px 28px;font:400 25px/1.35 IT;color:{INK}}}
+.notes{{position:absolute;left:672px;right:72px;top:420px;display:grid;gap:30px}}
+.notes p{{margin:0;font:400 30px/1.3 IT;color:{INK};border-top:2px solid {INK}1f;padding-top:16px}}
+.notes b{{display:block;font:500 30px/1.2 IT;color:{BURG};margin-bottom:6px}}
+.form{{position:absolute;left:72px;right:72px;top:400px;background:{GREY};border-radius:28px;padding:44px}}
+.f-head{{font:500 30px/1 IT;color:{MUTED};margin-bottom:28px}}
+.form label{{display:block;font:500 32px/1.2 IT;color:{INK};margin:22px 0 12px}}
+.f-in{{background:{WHITE};border:2px solid #DDD6D1;border-radius:14px;padding:22px 24px;font:400 30px/1 IT;color:#9A908C}}
+.f-up{{border-style:dashed;text-align:center}}
+.f-ta{{height:90px}}
+.f-btn{{margin-top:34px;background:{BURG};color:{WHITE};border-radius:14px;padding:26px;text-align:center;font:500 34px/1 IT}}
+.checks{{position:absolute;left:72px;right:72px;top:330px;display:grid}}
 .ck{{display:flex;gap:28px;align-items:center;border-top:2px solid {INK}1f;padding:28px 0;font:500 46px/1.15 IT;letter-spacing:-0.02em;color:{INK}}}
 .bx{{flex:0 0 56px;height:56px;border:3px solid currentColor;border-radius:12px;display:inline-flex;align-items:center;justify-content:center}}
 .bx svg{{width:34px;height:34px}}
@@ -127,12 +207,14 @@ body{{margin:0;background:#777;display:flex;flex-wrap:wrap;gap:40px;padding:40px
 
 OUT.mkdir(exist_ok=True)
 (OUT / 'web').mkdir(exist_ok=True)
+for old in list(OUT.glob('*.jpg')) + list((OUT / 'web').glob('*.jpg')):
+    old.unlink()
 page = HERE / 'carousel.html'
 page.write_text(f'<!doctype html><meta charset="utf-8"><style>{CSS}</style>' + ''.join(b for _, b in S))
 shot = HERE / 'shot.cjs'
 shot.write_text('''const {chromium}=require(process.env.NP+'/playwright');
 (async()=>{const b=await chromium.launch();const p=await b.newPage({viewport:{width:1600,height:1200}});
-await p.goto(process.argv[2]);await p.evaluate(()=>document.fonts.ready);await p.waitForTimeout(800);
+await p.goto(process.argv[2]);await p.evaluate(()=>document.fonts.ready);await p.waitForTimeout(900);
 for(const id of process.argv.slice(4)){await p.locator('[id="'+id+'"]').screenshot({path:process.argv[3]+'/'+id+'.png'});}
 await b.close()})();''')
 subprocess.run(['node', str(shot), page.as_uri(), str(OUT)] + [n for n, _ in S], check=True)
